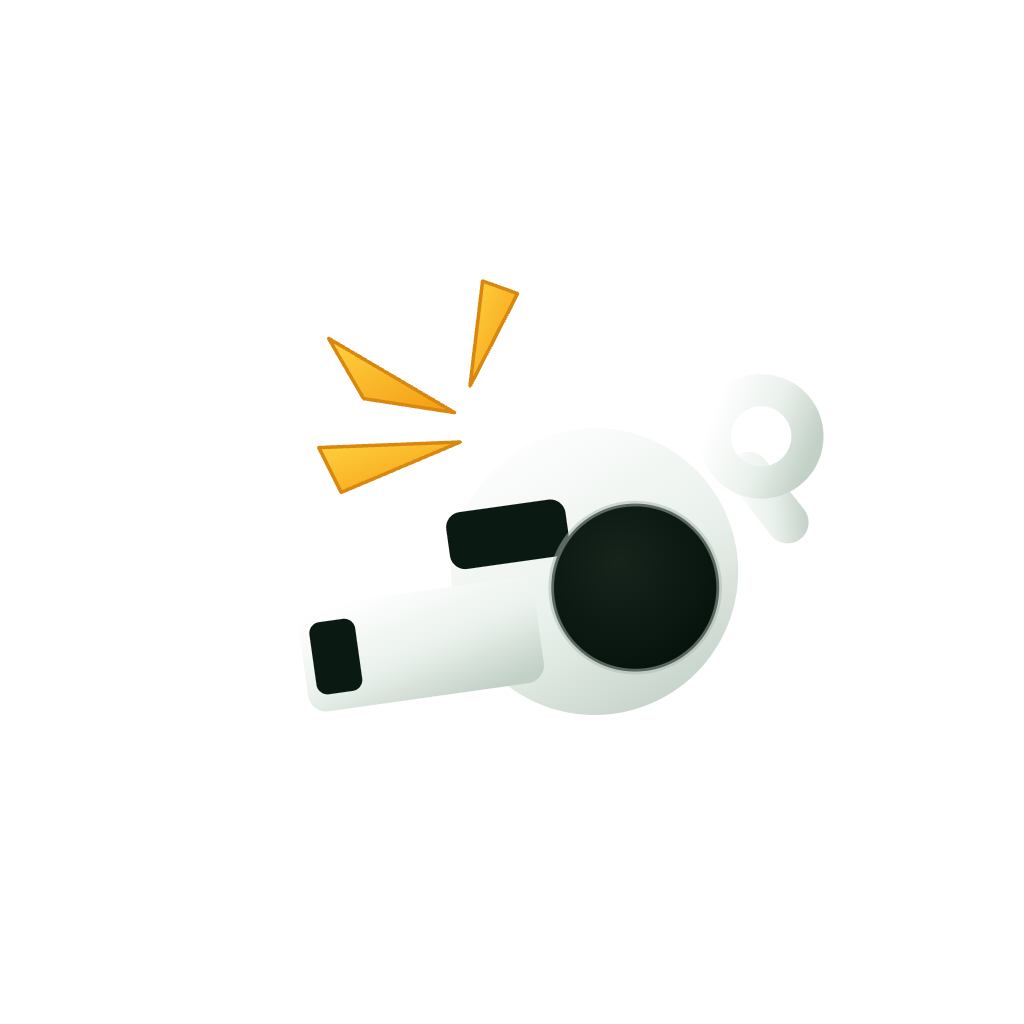
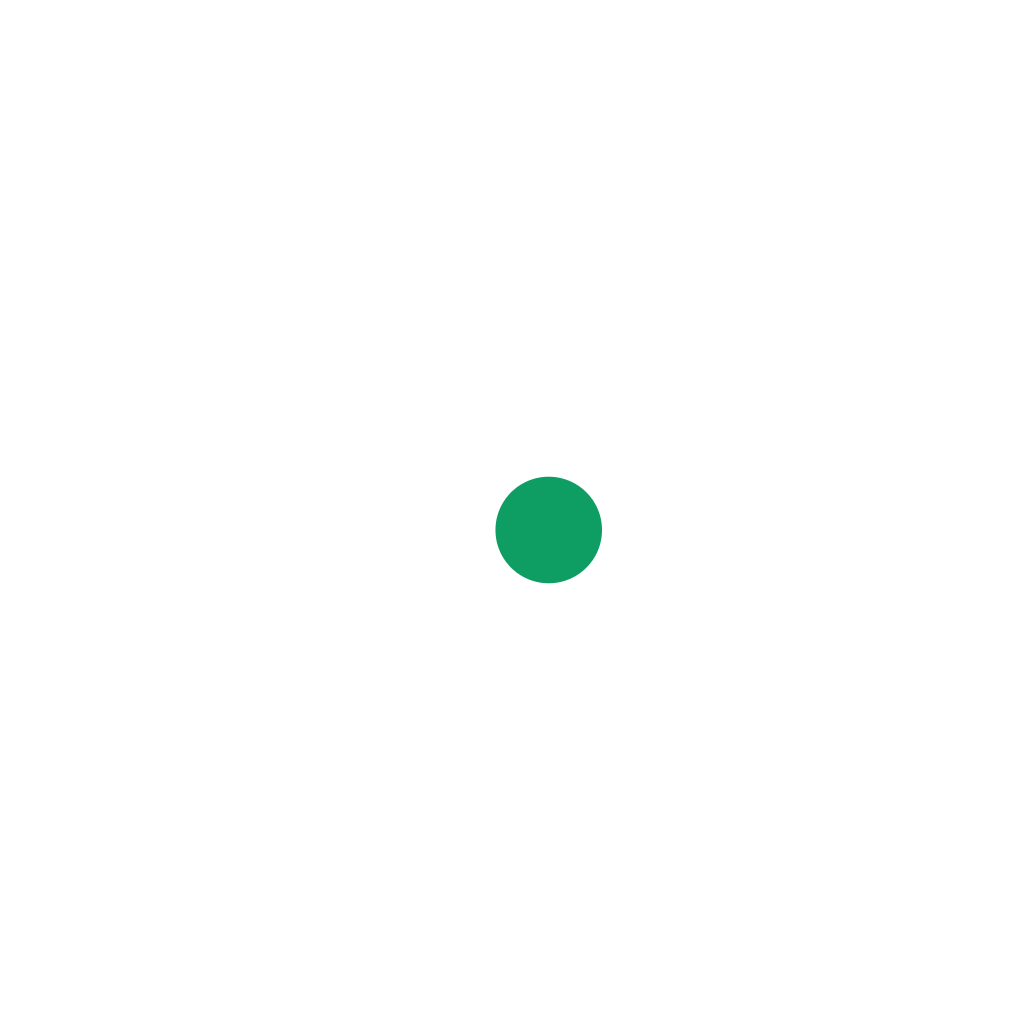
v43 - nuevo isotipo, scroll calendario al dia de hoy

diff --git a/app/(tabs)/calendar.tsx b/app/(tabs)/calendar.tsx
@@ -92,14 +92,6 @@ export default function CalendarScreen() {
   const days = Object.keys(byDay).sort();
   const todayKey = dayjs().format('YYYY-MM-DD');
 
-  // Scroll al día de hoy cuando cargan los partidos
-  React.useEffect(() => {
-    if (!loading && days.includes(todayKey) && todayOffsetRef.current !== null) {
-      setTimeout(() => {
-        scrollRef.current?.scrollTo({ y: todayOffsetRef.current!, animated: true });
-      }, 300);
-    }
-  }, [loading, days.join()]);
 
   const selectedLabel = selectedDate
     ? dayjs(selectedDate).locale('es').format('ddd D [de] MMM').toUpperCase()
@@ -283,7 +275,10 @@ export default function CalendarScreen() {
             const isToday = day === todayKey;
             const label = toART(byDay[day][0].utcDate).format('ddd DD [de] MMM').toUpperCase();
             return (
-              <View key={day} onLayout={isToday ? (e) => { todayOffsetRef.current = e.nativeEvent.layout.y; } : undefined}>
+              <View key={day} onLayout={isToday ? (e) => {
+                const y = e.nativeEvent.layout.y;
+                setTimeout(() => scrollRef.current?.scrollTo({ y, animated: true }), 100);
+              } : undefined}>
                 <View style={[styles.dayHeader, isToday && styles.dayHeaderToday]}>
                   <Text style={[styles.dayLabel, isToday && styles.dayLabelToday]}>{label}</Text>
                   <Text style={styles.dayCount}>{byDay[day].length} partido{byDay[day].length > 1 ? 's' : ''}</Text>
